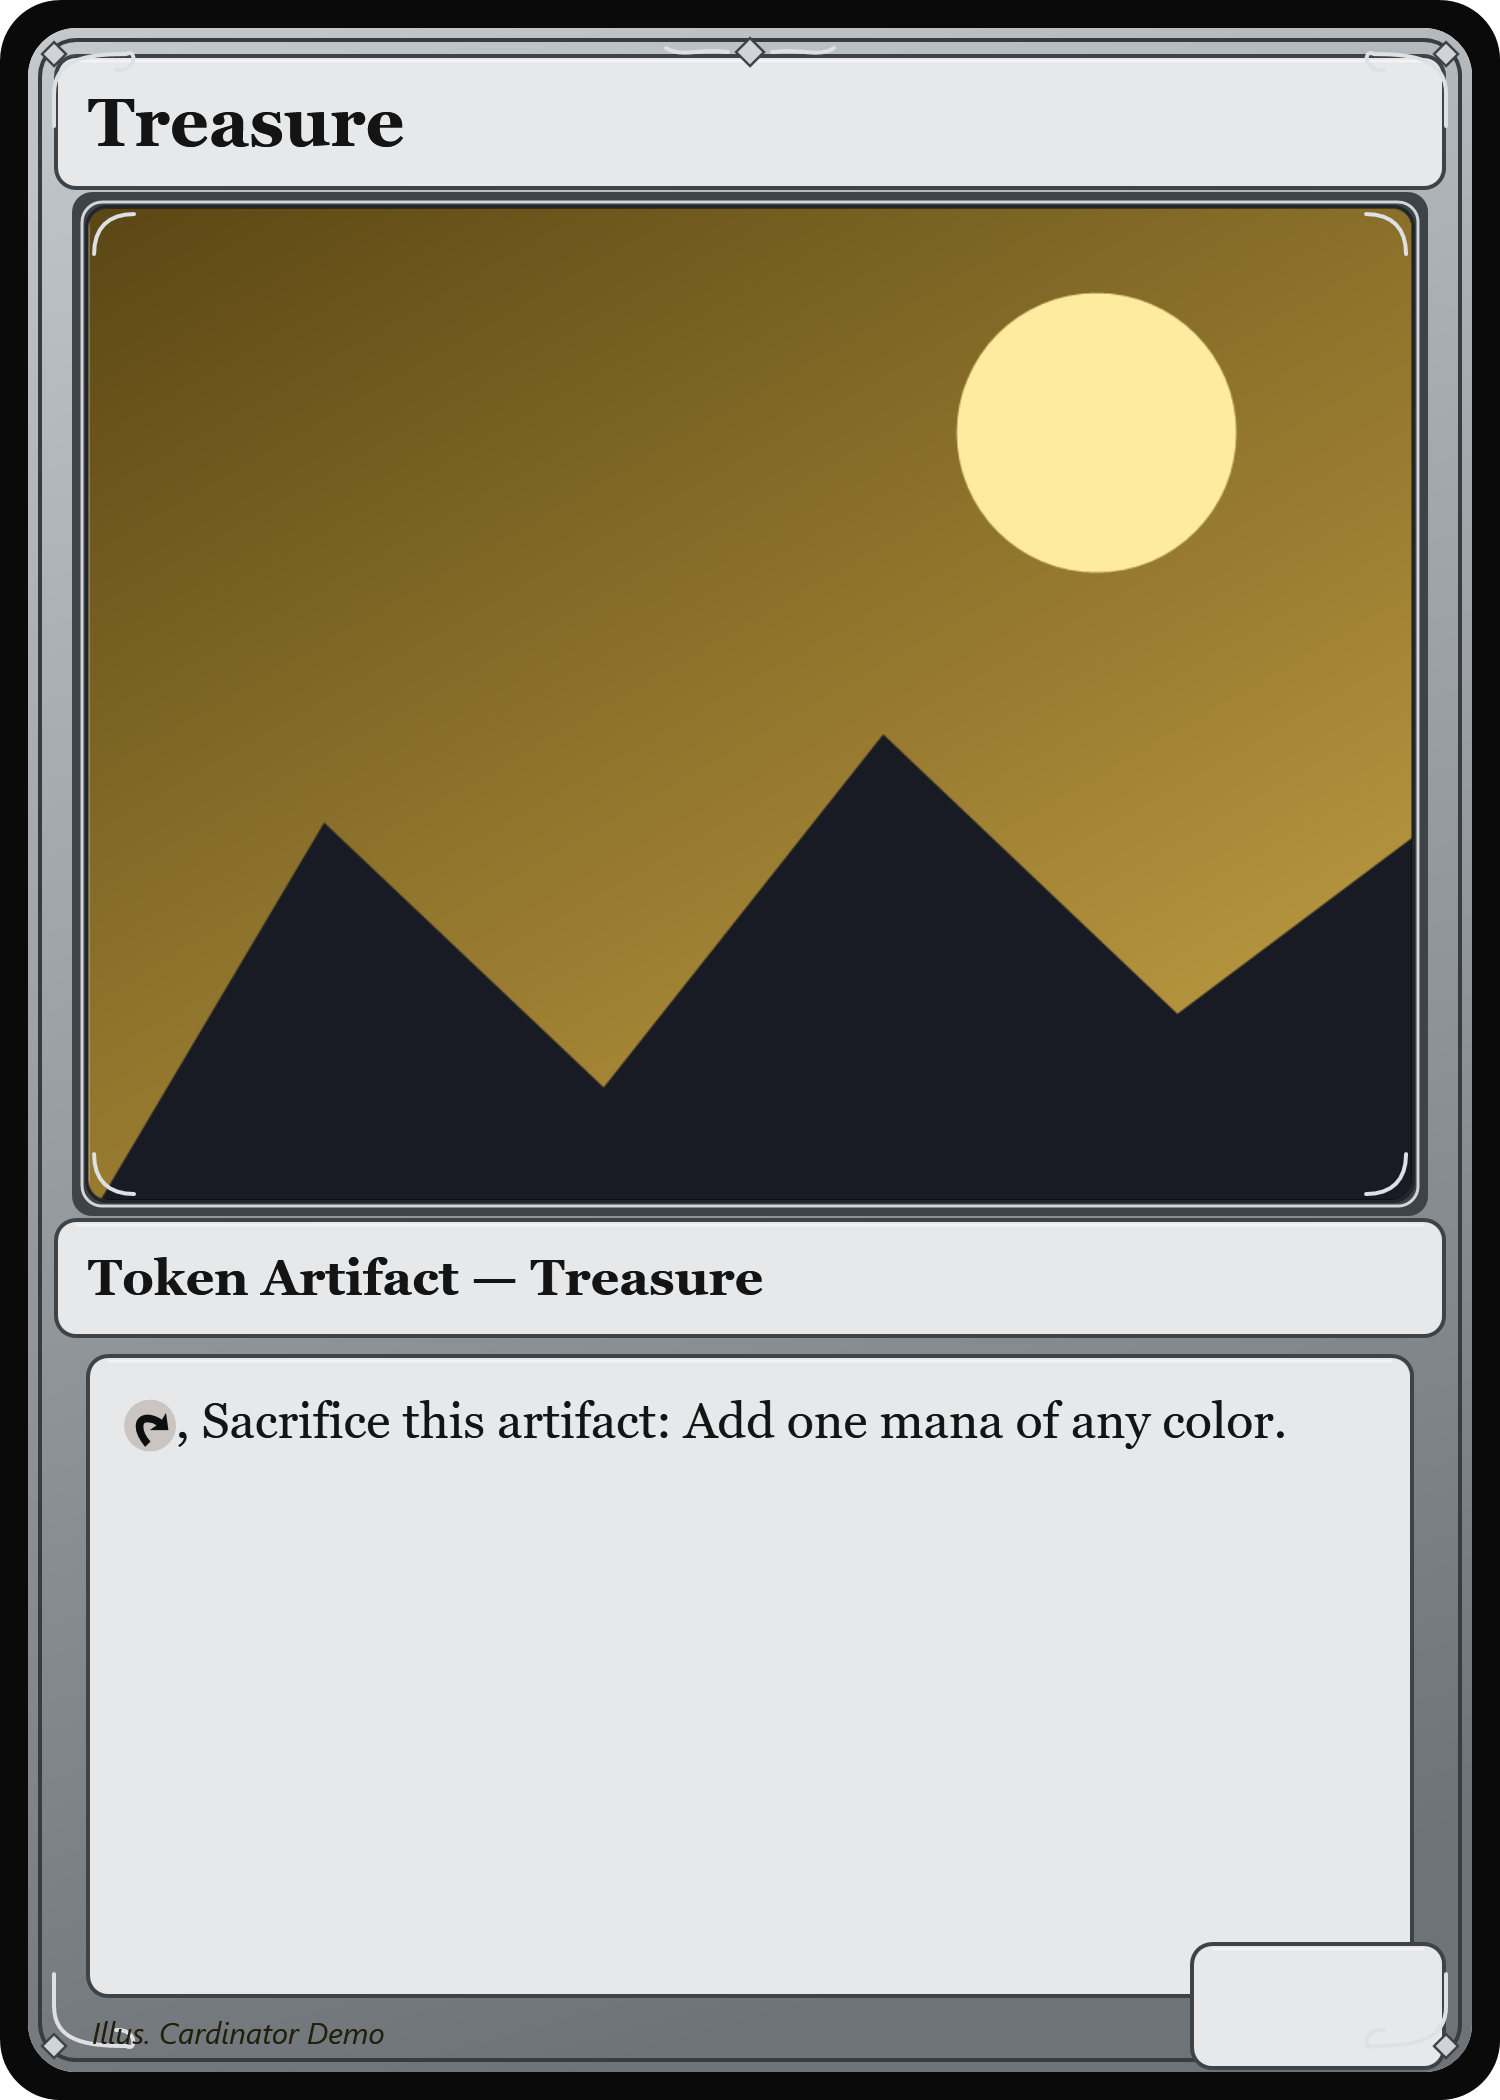
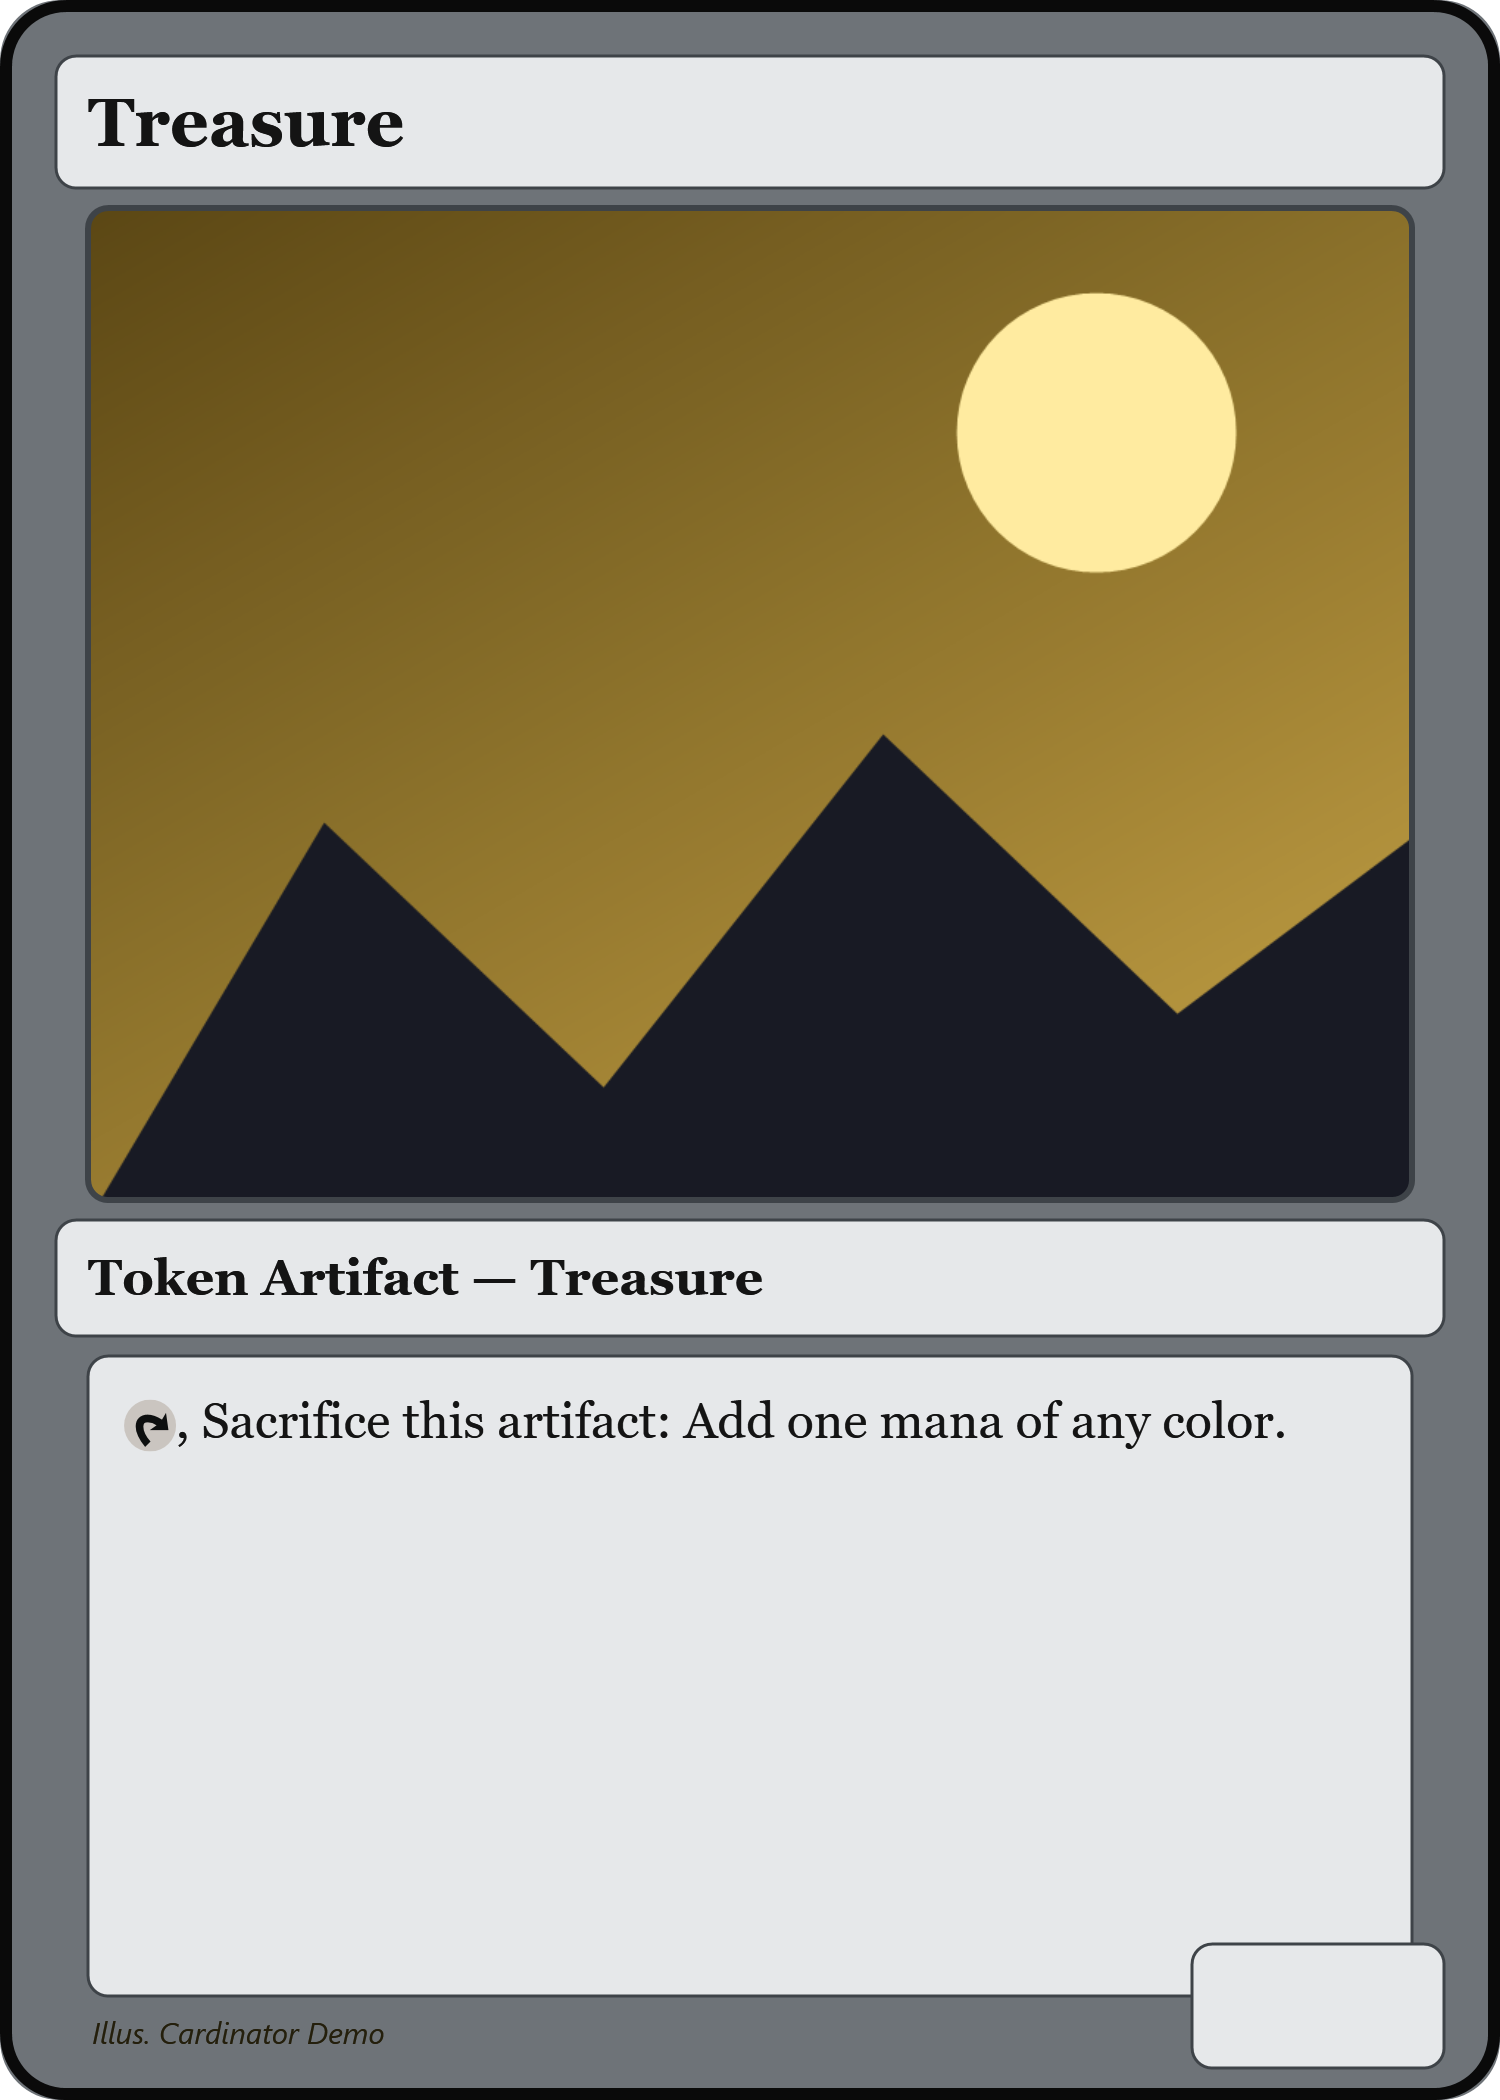
Distinct frame styles (classic/clean/ornate); apply across frames + examples; shorten example titles
Frames were recolors of one design. Added a frameStyle knob rendered three genuinely different ways: classic (gradient+bevel+filigree), clean (flat/modern), ornate (thick double-keyline + heavy filigree). Assigned a spread across the built-ins so the gallery, examples and showcase show real variety. Regenerated gallery/examples/showcase with authentic symbols. Shortened browse-grid tile titles so the grid aligns. Documented + tested; classic output unchanged (golden intact).

Changed region(s): [[0.0, 0.0, 1.0, 1.0]]

diff --git a/src/Cardinator/Services/FrameGenerator.cs b/src/Cardinator/Services/FrameGenerator.cs
@@ -62,7 +62,17 @@ public static class FrameGenerator
     private static void Draw(DrawingContext dc, TemplateSpec spec)
     {
         if (spec.FullArt) { DrawFullArtFrame(dc, spec); return; }
+        switch ((spec.FrameStyle ?? "classic").Trim().ToLowerInvariant())
+        {
+            case "clean": DrawCleanFrame(dc, spec); break;
+            case "ornate": DrawClassicFrame(dc, spec, ornate: true); break;
+            default: DrawClassicFrame(dc, spec, ornate: false); break;
+        }
+    }
 
+    /// <summary>The default MTG-style frame: gradient border, beveled art window and panels, filigree.</summary>
+    private static void DrawClassicFrame(DrawingContext dc, TemplateSpec spec, bool ornate)
+    {
         double W = spec.CanvasWidth, H = spec.CanvasHeight;
         var c = spec.Colors;
 
@@ -79,7 +89,7 @@ public static class FrameGenerator
         var frameBrush = new LinearGradientBrush(frame2Color, frameColor, new Point(0, 0), new Point(0.4, 1));
 
         var full = new Rect(0, 0, W, H);
-        var inner = Inset(full, 14);
+        var inner = Inset(full, ornate ? 20 : 14);
         var art = ToRect(spec.ArtWindow);
 
         double cardR = spec.CornerRadius, panelR = spec.PanelRadius;
@@ -94,6 +104,11 @@ public static class FrameGenerator
         // 2b. Inner keyline just inside the frame edge for a double-border look.
         dc.DrawRoundedRectangle(null, new Pen(new SolidColorBrush(Darken(panelBorderColor, 0.10)), 2),
             Inset(inner, 6), cardR - 12, cardR - 12);
+
+        // 2c. Ornate: a second, bright metallic keyline for a richer border.
+        if (ornate)
+            dc.DrawRoundedRectangle(null, new Pen(new SolidColorBrush(Lighten(frame2Color, 0.4)), 2.5),
+                Inset(inner, 2), cardR - 8, cardR - 8);
 
         // 3. Art window bevel: dark ring + light highlight + inner shadow line.
         var artOuter = Inset(art, -8);
@@ -110,9 +125,37 @@ public static class FrameGenerator
         DrawPanel(dc, panel, panelPen, panelColor, spec.TextBox, panelR);
         DrawPanel(dc, panel, panelPen, panelColor, spec.PtBox, panelR);
 
-        // 5. Ornamental filigree — corner scrolls, art-window curls, a top-center ornament.
-        if (spec.Embellishments)
+        // 5. Ornamental filigree (always on for ornate).
+        if (ornate || spec.Embellishments)
             DrawEmbellishments(dc, inner, art, frame2Color, panelBorderColor);
+    }
+
+    /// <summary>A flat, modern frame: solid slab, crisp thin edges, flat panels, no bevel or filigree.</summary>
+    private static void DrawCleanFrame(DrawingContext dc, TemplateSpec spec)
+    {
+        double W = spec.CanvasWidth, H = spec.CanvasHeight;
+        var c = spec.Colors;
+        var borderColor = TemplateSpec.ParseColor(c.Border);
+        var frameColor = TemplateSpec.ParseColor(c.Frame);
+        var panelColor = TemplateSpec.ParseColor(c.Panel);
+        var panelBorderColor = TemplateSpec.ParseColor(c.PanelBorder);
+
+        var full = new Rect(0, 0, W, H);
+        var art = ToRect(spec.ArtWindow);
+        double cardR = spec.CornerRadius, panelR = spec.PanelRadius;
+
+        // Flat frame slab with the art window punched out.
+        dc.DrawGeometry(new SolidColorBrush(frameColor), null,
+            Exclude(RoundedGeom(full, cardR), new RectangleGeometry(art, panelR, panelR)));
+        // Crisp thin outer edge.
+        dc.DrawRoundedRectangle(null, new Pen(new SolidColorBrush(borderColor), 6), Inset(full, 3), cardR, cardR);
+        // Simple art-window keyline (no bevel).
+        dc.DrawRoundedRectangle(null, new Pen(new SolidColorBrush(panelBorderColor), 3), art, panelR, panelR);
+        // Flat panels: solid fill + thin border, no gradient/highlight/filigree.
+        var pen = new Pen(new SolidColorBrush(panelBorderColor), 1.5);
+        var fill = new SolidColorBrush(panelColor);
+        foreach (var r in new[] { spec.TitleBar, spec.TypeBar, spec.TextBox, spec.PtBox })
+            dc.DrawRoundedRectangle(fill, pen, ToRect(r), panelR, panelR);
     }
 
     // --- ornamental embellishments -----------------------------------------

diff --git a/src/Cardinator/Services/BuiltInTemplates.cs b/src/Cardinator/Services/BuiltInTemplates.cs
@@ -8,15 +8,15 @@ public static class BuiltInTemplates
 {
     public static IEnumerable<TemplateSpec> All()
     {
-        yield return Make("Gold Multicolor", "#B8912B", "#F0DA97", "#ECE6D2", "#6E5A1E");
-        yield return Make("Ocean Blue", "#2E6E9E", "#9FC7E0", "#DCE8F0", "#234F6E");
-        yield return Make("Forest Green", "#3E7A44", "#A9CF9F", "#E1ECDD", "#2A5730");
-        yield return Make("Crimson Red", "#A23A2E", "#E3A79A", "#F0DED9", "#6E241C");
-        yield return Make("Slate Artifact", "#6E7378", "#C4C9CE", "#E6E8EA", "#3E4348");
-        yield return Make("Planeswalker", "#6B4E8E", "#C9B3E0", "#E7DEF0", "#3E2E56");
-        yield return Make("Midnight", "#23262E", "#4A5060", "#D9DDE6", "#12141A");
-        yield return Make("Parchment", "#C9B88C", "#EBDDB4", "#F3ECD8", "#8A784A");
-        yield return Make("Sunset Orange", "#C46A24", "#F0BC7E", "#F5E4CE", "#7E4012");
+        yield return Make("Gold Multicolor", "#B8912B", "#F0DA97", "#ECE6D2", "#6E5A1E", "ornate");
+        yield return Make("Ocean Blue", "#2E6E9E", "#9FC7E0", "#DCE8F0", "#234F6E", "clean");
+        yield return Make("Forest Green", "#3E7A44", "#A9CF9F", "#E1ECDD", "#2A5730", "classic");
+        yield return Make("Crimson Red", "#A23A2E", "#E3A79A", "#F0DED9", "#6E241C", "classic");
+        yield return Make("Slate Artifact", "#6E7378", "#C4C9CE", "#E6E8EA", "#3E4348", "clean");
+        yield return Make("Planeswalker", "#6B4E8E", "#C9B3E0", "#E7DEF0", "#3E2E56", "classic");
+        yield return Make("Midnight", "#23262E", "#4A5060", "#D9DDE6", "#12141A", "clean");
+        yield return Make("Parchment", "#C9B88C", "#EBDDB4", "#F3ECD8", "#8A784A", "ornate");
+        yield return Make("Sunset Orange", "#C46A24", "#F0BC7E", "#F5E4CE", "#7E4012", "classic");
         yield return MakeFullArt();
     }
 
@@ -50,11 +50,12 @@ public static class BuiltInTemplates
         RulesSymbolSize = 26,
     };
 
-    private static TemplateSpec Make(string name, string frame, string frame2, string panel, string panelBorder) => new()
+    private static TemplateSpec Make(string name, string frame, string frame2, string panel, string panelBorder, string style = "classic") => new()
     {
         Name = name,
         CanvasWidth = 750,
         CanvasHeight = 1050,
+        FrameStyle = style,
         Colors = new FrameColors
         {
             Border = "#0A0A0A",

diff --git a/tests/Cardinator.Tests/MoreTemplatesTests.cs b/tests/Cardinator.Tests/MoreTemplatesTests.cs
@@ -76,6 +76,32 @@ public class MoreTemplatesTests
         }
     }
 
+    [Fact]
+    public void FrameStyles_ProduceDistinctFrames()
+    {
+        var spec = BuiltInTemplates.All().First(s => !s.FullArt);
+        string P() => System.IO.Path.Combine(System.IO.Path.GetTempPath(), $"style-{Guid.NewGuid():N}.png");
+        var classic = P(); var clean = P(); var ornate = P();
+        try
+        {
+            spec.FrameStyle = "classic"; FrameGenerator.Generate(spec, classic);
+            spec.FrameStyle = "clean"; FrameGenerator.Generate(spec, clean);
+            spec.FrameStyle = "ornate"; FrameGenerator.Generate(spec, ornate);
+
+            var a = System.IO.File.ReadAllBytes(classic);
+            var b = System.IO.File.ReadAllBytes(clean);
+            var c = System.IO.File.ReadAllBytes(ornate);
+            Assert.False(a.AsSpan().SequenceEqual(b), "classic vs clean should differ");
+            Assert.False(a.AsSpan().SequenceEqual(c), "classic vs ornate should differ");
+            Assert.False(b.AsSpan().SequenceEqual(c), "clean vs ornate should differ");
+        }
+        finally
+        {
+            foreach (var f in new[] { classic, clean, ornate })
+                try { System.IO.File.Delete(f); } catch { }
+        }
+    }
+
     private static bool HasContent(BitmapSource bmp)
     {
         int stride = bmp.PixelWidth * 4;

diff --git a/src/Cardinator/Models/TemplateSpec.cs b/src/Cardinator/Models/TemplateSpec.cs
@@ -61,6 +61,9 @@ public sealed class TemplateSpec
     /// </summary>
     public bool FullArt { get; set; }
 
+    /// <summary>Frame design: "classic" (default), "clean" (flat/modern) or "ornate" (heavy/decorative).</summary>
+    public string FrameStyle { get; set; } = "classic";
+
     /// <summary>Draw ornamental filigree (corner scrolls, art-window curls, top ornament).</summary>
     public bool Embellishments { get; set; } = true;
 
@@ -139,6 +142,7 @@ public sealed class TemplateSpec
         if (RulesSymbolSize <= 0) RulesSymbolSize = d.RulesSymbolSize;
         if (CornerRadius < 0) CornerRadius = d.CornerRadius;
         if (PanelRadius < 0) PanelRadius = d.PanelRadius;
+        if (string.IsNullOrWhiteSpace(FrameStyle)) FrameStyle = d.FrameStyle;
     }
 
     /// <summary>Parses a hex/named color, falling back to black if the string is invalid.</summary>

diff --git a/README.md b/README.md
@@ -111,13 +111,13 @@ output are all checked in.** Click a thumbnail for that example's guide.
 
 <table>
 <tr>
-<td align="center" width="33%"><a href="examples/01-real-cards-custom-art/"><img src="examples/01-real-cards-custom-art/output/001_lightning-bolt.png" width="185" alt="Real cards, custom art"></a><br/><a href="examples/01-real-cards-custom-art/"><b>⭐ Real cards, custom art</b></a><br/><sub>a whole deck in your art</sub></td>
+<td align="center" width="33%"><a href="examples/01-real-cards-custom-art/"><img src="examples/01-real-cards-custom-art/output/001_lightning-bolt.png" width="185" alt="Real cards, custom art"></a><br/><a href="examples/01-real-cards-custom-art/"><b>⭐ Real cards</b></a><br/><sub>a whole deck in your art</sub></td>
 <td align="center" width="33%"><a href="examples/02-custom-set/"><img src="examples/02-custom-set/output/001_aria-stormcaller.png" width="185" alt="Custom set"></a><br/><a href="examples/02-custom-set/"><b>Custom set</b></a><br/><sub>your own cards from a CSV</sub></td>
 <td align="center" width="33%"><a href="examples/03-full-art/"><img src="examples/03-full-art/output/001_nightfall-wanderer.png" width="185" alt="Full-art"></a><br/><a href="examples/03-full-art/"><b>Full-art</b></a><br/><sub>text on the artwork</sub></td>
 </tr>
 <tr>
 <td align="center" width="33%"><a href="examples/04-custom-frame/"><img src="examples/04-custom-frame/output/warden.png" width="185" alt="Custom frame"></a><br/><a href="examples/04-custom-frame/"><b>Custom frame</b></a><br/><sub>bring your own frame PNG</sub></td>
-<td align="center" width="33%"><a href="examples/05-tokens-emblems/"><img src="examples/05-tokens-emblems/output/002_angel.png" width="185" alt="Tokens and emblems"></a><br/><a href="examples/05-tokens-emblems/"><b>Tokens &amp; emblems</b></a><br/><sub>the deck's extras</sub></td>
+<td align="center" width="33%"><a href="examples/05-tokens-emblems/"><img src="examples/05-tokens-emblems/output/002_angel.png" width="185" alt="Tokens and emblems"></a><br/><a href="examples/05-tokens-emblems/"><b>Tokens</b></a><br/><sub>the deck's extras</sub></td>
 <td align="center" width="33%"><a href="examples/06-printing/"><img src="examples/06-printing/output/card-back.png" width="185" alt="Printing"></a><br/><a href="examples/06-printing/"><b>Printing</b></a><br/><sub>card back + bleed export</sub></td>
 </tr>
 </table>

diff --git a/docs/TEMPLATES.md b/docs/TEMPLATES.md
@@ -41,6 +41,8 @@ on every frame you have installed, including your own imports.)*
 Start from a default and fiddle. Copy a folder under `CardinatorData/templates/`, **delete its
 `frame.png`** (so it regenerates), and edit `template.json`. The handy style knobs:
 
+- **`frameStyle`** — `"classic"` (gradient border + beveled panels), `"clean"` (flat, modern, no
+  bevel or filigree), or `"ornate"` (thicker border, double keyline, heavier filigree).
 - **`colors`** — `border` / `frame` / `frame2` (the frame gradient) / `panel` / `panelBorder`.
 - **`embellishments`** — `true`/`false` to turn the ornamental filigree on or off.
 - **`cornerRadius`** / **`panelRadius`** — rounded vs. sharp corners for the card and the panels.
@@ -93,6 +95,7 @@ name falls back to a default — so a small typo won't take the app down.
   "canvasWidth": 750,            // logical canvas (keep 750 x 1050 for a normal card)
   "canvasHeight": 1050,
   "fullArt": false,             // true = art fills the whole card, text sits on it (see below)
+  "frameStyle": "classic",      // "classic" (gradient + bevel), "clean" (flat/modern), "ornate" (heavy)
   "embellishments": true,       // ornamental corner scrolls / art-window curls / top ornament
   "cornerRadius": 30,           // card-edge rounding (0 = square corners)
   "panelRadius": 10,            // art window + text panel rounding
